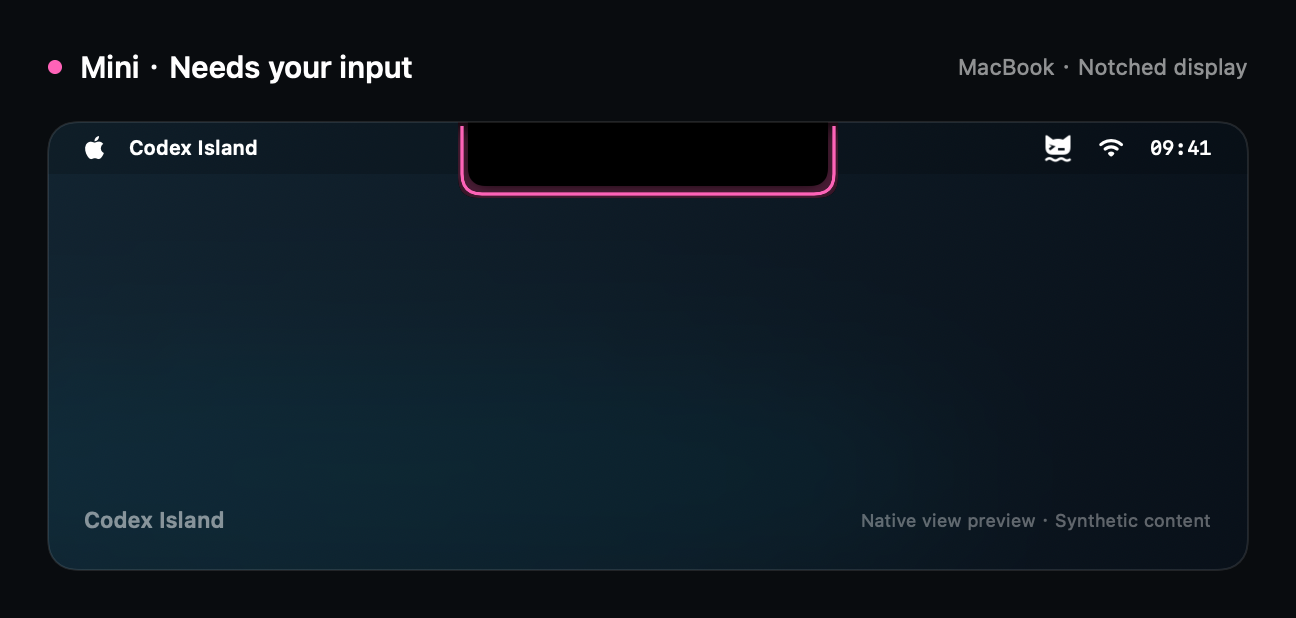
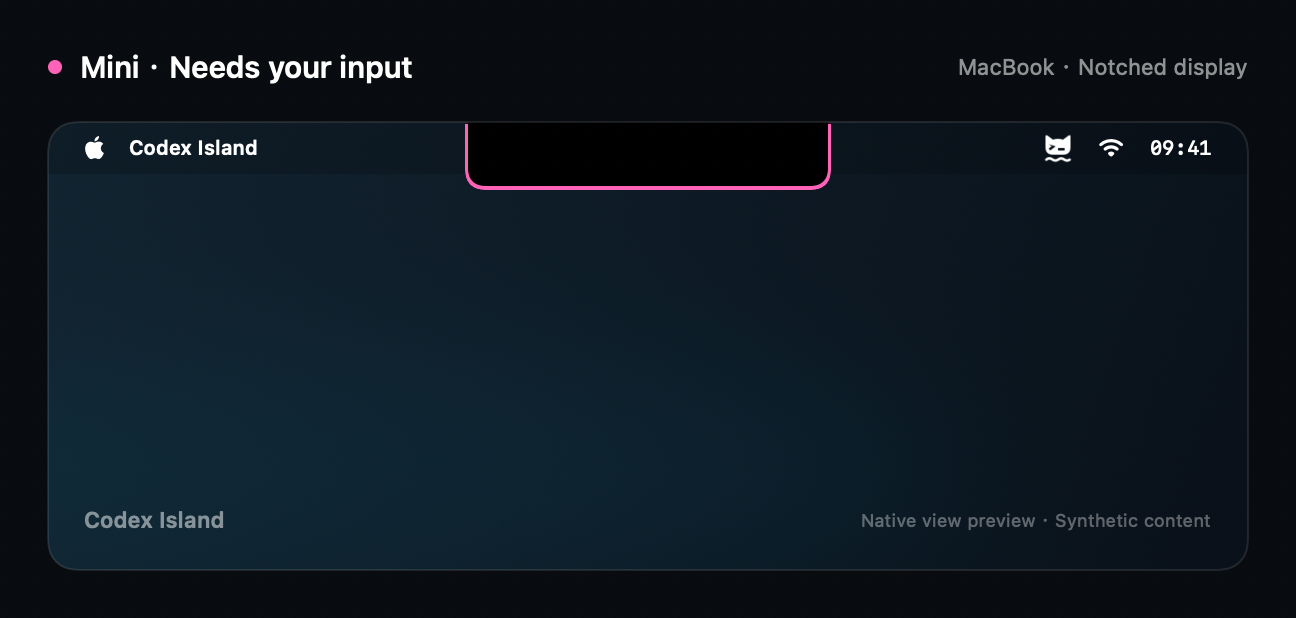
fix: load packaged resources and refine notch mini lights

Changed region(s): [[0.3395, 0.2152, 0.6481, 0.3382]]

diff --git a/Sources/CodexIsland/IslandEffects.swift b/Sources/CodexIsland/IslandEffects.swift
@@ -37,33 +37,33 @@ struct IslandOutline: View {
                 if settings.appearancePreset == .highContrast {
                     // A continuous, unblurred outline remains legible against
                     // both dark and light desktops. Status also has a glyph.
-                    shape.stroke(.white, lineWidth: 2)
+                    shape.stroke(.white, lineWidth: mini && notched ? 2.4 : 2)
                     shape.stroke(tint, lineWidth: 1)
                 } else if settings.appearancePreset == .quiet {
-                    shape.stroke(tint.opacity(state == .idle ? 0.35 : 0.75), lineWidth: 1.1)
+                    shape.stroke(tint.opacity(state == .idle ? 0.35 : 0.75), lineWidth: mini && notched ? 1.6 : 1.1)
                 } else if state == .running {
                     shape.stroke(.white.opacity(0.09), lineWidth: 0.8)
                     shape.stroke(AngularGradient(colors: [primary.opacity(0.5), primary, secondary, primary.opacity(0.5)],
                                                  center: .center, angle: .degrees(time.truncatingRemainder(dividingBy: 6) * 60)),
-                                 lineWidth: 1.1).opacity(0.65)
+                                 lineWidth: mini && notched ? 1.5 : 1.1).opacity(0.65)
                     OrbitSegment(notched: notched, mini: mini, phase: time / 3.0, length: 0.19)
                         .stroke(primary, style: StrokeStyle(lineWidth: 4, lineCap: .round)).blur(radius: 4).opacity(0.7)
                     OrbitSegment(notched: notched, mini: mini, phase: time / 3.0, length: 0.12)
-                        .stroke(primary, style: StrokeStyle(lineWidth: 1.7, lineCap: .round))
+                        .stroke(primary, style: StrokeStyle(lineWidth: mini && notched ? 2.4 : 1.7, lineCap: .round))
                     OrbitSegment(notched: notched, mini: mini, phase: time / 3.0 + 0.5, length: 0.13)
-                        .stroke(secondary.opacity(0.85), style: StrokeStyle(lineWidth: 1.4, lineCap: .round))
+                        .stroke(secondary.opacity(0.85), style: StrokeStyle(lineWidth: mini && notched ? 2.2 : 1.4, lineCap: .round))
                 } else if state == .needsInput || state == .blocked {
                     shape.stroke(tint, lineWidth: 5).blur(radius: 5).opacity(0.2 + pulse * 0.45)
-                    shape.stroke(tint.opacity(0.45 + pulse * 0.55), lineWidth: 1.6)
+                    shape.stroke(tint.opacity(0.45 + pulse * 0.55), lineWidth: mini && notched ? 2.4 : 1.6)
                 } else {
-                    shape.stroke(tint.opacity(state == .idle ? 0.13 + pulse * 0.16 : 0.6), lineWidth: 1)
+                    shape.stroke(tint.opacity(state == .idle ? 0.13 + pulse * 0.16 : 0.6), lineWidth: mini && notched ? 1.5 : 1)
                     if state == .idle {
                         OrbitSegment(notched: notched, mini: mini, phase: time / 12, length: 0.10)
                             .stroke(tint.opacity(0.35), style: StrokeStyle(lineWidth: 1.1, lineCap: .round))
                     }
                 }
             }
-            .padding(2)
+            .padding(mini && notched ? 1 : 2)
             .clipShape(shape)
         }
         .allowsHitTesting(false)

diff --git a/Sources/CodexIsland/App.swift b/Sources/CodexIsland/App.swift
@@ -12,10 +12,11 @@ struct Options {
     var renderPath: URL?
     var galleryPath: URL?
     var mini = false
+    var checkResources = false
     private var isPreviewBundle = false
 
     var permitsPersistentChanges: Bool {
-        demo == nil && statusFile == nil && !diagnose && !help && renderPath == nil && galleryPath == nil && !isPreviewBundle && !mini
+        demo == nil && statusFile == nil && !diagnose && !help && !checkResources && renderPath == nil && galleryPath == nil && !isPreviewBundle && !mini
     }
 
     init(arguments: [String], previewState: String? = Bundle.main.object(forInfoDictionaryKey: "CodexIslandPreviewState") as? String) throws {
@@ -36,6 +37,7 @@ struct Options {
                 statusFile = URL(fileURLWithPath: arguments[index])
             case "--diagnose": diagnose = true
             case "--mini": mini = true
+            case "--check-resources": checkResources = true
             case "--render-previews":
                 index += 1
                 guard index < arguments.count, arguments[index].hasPrefix("/") else { throw OptionError.invalid }
@@ -428,8 +430,23 @@ enum CodexIslandMain {
               --render-previews /absolute/preview.png     渲染原生视图示意并退出
               --render-gallery /absolute/directory        渲染 4 状态 × 2 屏幕的公开示意图
               --mini                                     本次使用 Mini 模式；与演示/图库组合，不写正式偏好
+              --check-resources                          只检查随包四语言与品牌资源，不创建界面或读取 Codex
             默认使用只读本机会话状态；当前不支持完成未读同步，未验证与宠物完全一致。
             """)
+            return
+        }
+        if options.checkResources {
+            let languages = ["en", "zh-Hans", "zh-Hant", "ja"]
+            let valid = languages.allSatisfy { language in
+                guard let bundle = L10n.localizedBundle(language) else { return false }
+                let value = bundle.localizedString(forKey: "settings.window.title", value: nil, table: nil)
+                return !value.isEmpty && value != "settings.window.title"
+            }
+            guard valid, AppResources.bundle.url(forResource: "AppIcon", withExtension: "png", subdirectory: "Brand") != nil else {
+                print("Packaged resource check failed")
+                exit(1)
+            }
+            print("Packaged resources verified: 4 languages and brand icon")
             return
         }
         let app = NSApplication.shared

diff --git a/Tests/IslandUITests/AppResourcesTests.swift b/Tests/IslandUITests/AppResourcesTests.swift
@@ -1,0 +1,41 @@
+import Foundation
+import Testing
+@testable import CodexIsland
+
+@MainActor @Test func packagedResourcesDoNotEvaluateTheGeneratedDevelopmentAccessor() throws {
+    let root = FileManager.default.temporaryDirectory.appendingPathComponent("packaged-resource-\(UUID().uuidString).app")
+    defer { try? FileManager.default.removeItem(at: root) }
+    let resources = root.appendingPathComponent("Contents/Resources")
+    let packaged = resources.appendingPathComponent("CodexIsland_CodexIsland.bundle")
+    try FileManager.default.createDirectory(at: packaged.appendingPathComponent("Contents/Resources"), withIntermediateDirectories: true)
+    let info = ["CFBundleIdentifier": "dev.water.synthetic-packaged-resource", "CFBundlePackageType": "APPL"]
+    try PropertyListSerialization.data(fromPropertyList: info, format: .xml, options: 0)
+        .write(to: root.appendingPathComponent("Contents/Info.plist"))
+    try PropertyListSerialization.data(fromPropertyList: ["CFBundleIdentifier": "dev.water.synthetic-resources"], format: .xml, options: 0)
+        .write(to: packaged.appendingPathComponent("Contents/Info.plist"))
+    let application = try #require(Bundle(url: root))
+    var evaluatedDevelopment = false
+    let actual = AppResources.resolve(in: application) {
+        evaluatedDevelopment = true
+        return .main
+    }
+    #expect(!evaluatedDevelopment)
+    #expect(actual.bundleURL.standardizedFileURL == packaged.standardizedFileURL)
+    #expect(try Options(arguments: ["--check-resources"]).permitsPersistentChanges == false)
+}
+
+@MainActor @Test func unpackagedExecutablesCanStillUseSwiftPMResources() throws {
+    let root = FileManager.default.temporaryDirectory.appendingPathComponent("development-resource-\(UUID().uuidString).bundle")
+    defer { try? FileManager.default.removeItem(at: root) }
+    try FileManager.default.createDirectory(at: root, withIntermediateDirectories: true)
+    try PropertyListSerialization.data(fromPropertyList: ["CFBundleIdentifier": "dev.water.synthetic-development"], format: .xml, options: 0)
+        .write(to: root.appendingPathComponent("Info.plist"))
+    let application = try #require(Bundle(url: root))
+    var evaluatedDevelopment = false
+    let result = AppResources.resolve(in: application) {
+        evaluatedDevelopment = true
+        return .main
+    }
+    #expect(evaluatedDevelopment)
+    #expect(result === Bundle.main)
+}

diff --git a/Tests/IslandCoreTests/MiniModeTests.swift b/Tests/IslandCoreTests/MiniModeTests.swift
@@ -29,7 +29,7 @@ import Testing
         for (width, depth) in [(180.0, 32.0), (214, 37), (163.5, 28.5)] {
             let notch = IslandGeometry.layout(screenWidth: 1512, notchWidth: width, notchHeight: depth,
                                               expanded: true, contentHeight: height, displayMode: .mini)
-            #expect(notch.width == width + 10 && notch.height == depth + 6)
+            #expect(notch.width == width + 3 && notch.height == depth + 2)
             #expect(notch.notchWidth == width && notch.notchHeight == depth && notch.hasNotch)
         }
     }
@@ -64,7 +64,7 @@ import Testing
     let frame = DisplayPlacementPolicy.frame(screenFrame: screen, visibleFrame: screen, geometry: geometry,
                                               backingScale: 2, notchCenterX: cutout.centerX)
     #expect(frame.midX == -820 && frame.maxY == 1100)
-    #expect(frame.width == 210 && frame.height == 38)
+    #expect(frame.width == 203 && frame.height == 34)
     #expect(DisplayCutout.resolve(screenFrame: screen, safeAreaTop: 0, leftArea: left, rightArea: right) == nil)
     #expect(DisplayCutout.resolve(screenFrame: screen, safeAreaTop: .nan, leftArea: left, rightArea: right) == nil)
     #expect(DisplayCutout.resolve(screenFrame: screen, safeAreaTop: 32, leftArea: nil, rightArea: right) == nil)

diff --git a/Tests/IslandUITests/MiniModeTests.swift b/Tests/IslandUITests/MiniModeTests.swift
@@ -13,11 +13,11 @@ import DesktopFeed
     #expect(!IslandHitRegion.contains(CGPoint(x: 22, y: 23), geometry: normal))
     let notch = IslandGeometry.layout(screenWidth: 1512, notchWidth: 180, notchHeight: 32,
                                       expanded: true, displayMode: .mini)
-    #expect(!IslandHitRegion.contains(CGPoint(x: 95, y: 15), geometry: notch))
-    #expect(IslandHitRegion.contains(CGPoint(x: 2, y: 15), geometry: notch))
-    #expect(IslandHitRegion.contains(CGPoint(x: 188, y: 15), geometry: notch))
-    #expect(IslandHitRegion.contains(CGPoint(x: 95, y: 35), geometry: notch))
-    #expect(!IslandHitRegion.contains(CGPoint(x: 1, y: 37), geometry: notch))
+    #expect(!IslandHitRegion.contains(CGPoint(x: 91.5, y: 15), geometry: notch))
+    #expect(IslandHitRegion.contains(CGPoint(x: 0.75, y: 15), geometry: notch))
+    #expect(IslandHitRegion.contains(CGPoint(x: 182.25, y: 15), geometry: notch))
+    #expect(IslandHitRegion.contains(CGPoint(x: 91.5, y: 33), geometry: notch))
+    #expect(!IslandHitRegion.contains(CGPoint(x: 1, y: 33), geometry: notch))
 }
 
 @MainActor @Test func miniModePreservesStatusAndPrivacyWithoutAnnouncingAnInvisiblePet() throws {

diff --git a/Sources/IslandCore/IslandGeometry.swift b/Sources/IslandCore/IslandGeometry.swift
@@ -13,8 +13,8 @@ public struct IslandGeometry: Equatable, Sendable {
                               displayMode: IslandDisplayMode = .full) -> Self {
         let notched = notchWidth.isFinite && notchHeight.isFinite && notchWidth > 0 && notchHeight > 0
         if displayMode == .mini {
-            return Self(width: notched ? notchWidth + 10 : 44,
-                        height: notched ? notchHeight + 6 : 22,
+            return Self(width: notched ? notchWidth + 3 : 44,
+                        height: notched ? notchHeight + 2 : 22,
                         notchWidth: notched ? notchWidth : 0,
                         notchHeight: notched ? notchHeight : 0,
                         hasNotch: notched, displayMode: .mini)

diff --git a/Sources/CodexIsland/AppResources.swift b/Sources/CodexIsland/AppResources.swift
@@ -1,0 +1,16 @@
+import Foundation
+
+/// A packaged app keeps its reviewed resources in Contents/Resources. Older
+/// SwiftPM accessors search beside the app or in the original build directory.
+@MainActor
+enum AppResources {
+    static let bundle = resolve(in: .main) { .module }
+
+    static func resolve(in application: Bundle, development: () -> Bundle) -> Bundle {
+        if let resources = application.resourceURL,
+           let packaged = Bundle(url: resources.appendingPathComponent("CodexIsland_CodexIsland.bundle")) {
+            return packaged
+        }
+        return development()
+    }
+}

diff --git a/Sources/CodexIsland/L10n.swift b/Sources/CodexIsland/L10n.swift
@@ -10,7 +10,7 @@ final class L10n {
     private static let bundles: [String: Bundle] = {
         var result: [String: Bundle] = [:]
         for language in ["en", "zh-Hans", "zh-Hant", "ja"] {
-            if let bundle = resolveLocalizedBundle(language, in: .module) {
+            if let bundle = resolveLocalizedBundle(language, in: AppResources.bundle) {
                 result[language] = bundle
             }
         }

diff --git a/Sources/CodexIsland/BrandAssets.swift b/Sources/CodexIsland/BrandAssets.swift
@@ -5,7 +5,7 @@ import AppKit
 @MainActor
 enum BrandAssets {
     static let colorIcon: NSImage? = {
-        guard let url = Bundle.module.url(forResource: "AppIcon", withExtension: "png", subdirectory: "Brand") else { return nil }
+        guard let url = AppResources.bundle.url(forResource: "AppIcon", withExtension: "png", subdirectory: "Brand") else { return nil }
         return NSImage(contentsOf: url)
     }()
 

diff --git a/docs/releases.md b/docs/releases.md
@@ -4,13 +4,13 @@
 
 ## Continuous integration
 
-The macOS checks workflow runs for pushes to main, pull requests, and manual dispatch. Its matrix covers the macOS 14 Apple Silicon runner and the macOS 15 Intel runner. Each job checks public files and documentation links, validates script syntax, runs the fixture-based tests, builds a native Release app, and verifies its signature.
+The macOS checks workflow runs for pushes to main, pull requests, and manual dispatch. Its matrix covers the macOS 14 Apple Silicon runner and the macOS 15 Intel runner. Each job checks public files and documentation links, validates script syntax, runs the fixture-based tests, builds a native Release app, verifies its signature, and executes the packaged binary with `--check-resources`. This checks the four language catalogs and brand icon without creating NSApplication or reading Codex data.
 
 Hosted-runner unit tests do not replace real desktop validation of approvals, Spaces, displays, or long-duration performance. No real chats, personal images, or signing credentials are required. The native gallery rasterization test is an opt-in desktop integration check (`CODEX_ISLAND_TEST_RENDER_PREVIEWS=1 ./Scripts/test.sh`). A headless runner may return a Metal device that still aborts during rendering, so device availability alone is insufficient. Default CI explicitly skips that check while synthetic gallery model and brand-pixel checks still run.
 
 ## Preview release workflow
 
-Pushing a version tag such as v0.7.3 starts the preview workflow. Maintainers can also dispatch it manually with an existing tag. The workflow:
+Pushing a version tag such as v0.8.1 starts the preview workflow. Maintainers can also dispatch it manually with an existing tag. The workflow:
 
 1. Checks that the tag is a version, resolves to the checked-out commit, and is on main's history.
 2. Checks the public source set and runs Release tests.
@@ -28,14 +28,14 @@ Update MARKETING_VERSION and BUILD_NUMBER in Scripts/package_app.sh, plus the ch
 ```bash
 python3 Scripts/verify_repository.py
 ./Scripts/test.sh -c release
-./Scripts/package_release.sh v0.7.3
+./Scripts/package_release.sh v0.8.1
 ```
 
 After committing and pushing to main, wait for all CI jobs on that exact commit to pass before creating the version tag:
 
 ```bash
-git tag -a v0.7.3 -m "Codex Island v0.7.3 preview"
-git push origin v0.7.3
+git tag -a v0.8.1 -m "Codex Island v0.8.1 preview"
+git push origin v0.8.1
 ```
 
 Do not reuse a published tag. A failed workflow may leave a draft; inspect it and the failure logs before manually recovering. Published assets are not overwritten by rerunning the workflow.
@@ -58,6 +58,6 @@ Current builds are **ad-hoc signed and not notarized**. No Developer ID certific
 
 ## Public source gate
 
-Scripts/verify_repository.py rejects generated/private directories, session databases and JSONL, key material paths, unexpected media, and recognizable embedded GitHub tokens/private-key blocks. The media allowlist contains the reviewed brand assets, the settings icon copy, and eight synthetic native state previews. It also checks local Markdown references. This targeted gate is not a complete secret scanner or a replacement for code review.
+Scripts/verify_repository.py rejects generated/private directories, session databases and JSONL, key material paths, unexpected media, and recognizable embedded GitHub tokens/private-key blocks. The media allowlist contains the reviewed brand assets, the settings icon copy, and sixteen synthetic native Full/Mini state previews. It also checks local Markdown references. This targeted gate is not a complete secret scanner or a replacement for code review.
 
 Personal pet files stay in the ignored local directory and are absent from Git history and release bundles. The app's separate bundle allowlist prevents an accidental private resource copy from reaching a release archive.

diff --git a/docs/release-readiness.md b/docs/release-readiness.md
@@ -1,6 +1,15 @@
 # GitHub 发布准备记录
 
-日期：2026-10-26；本次版本 0.8.0 build 14。下方 0.7.x 和未发布阶段记录作为历史证据保留。
+日期：2026-10-26；本次版本 0.8.1 build 15。下方 0.7.x 和未发布阶段记录作为历史证据保留。
+
+## 0.8.1 发布资源与物理刘海修复
+
+- 对已下载且校验通过的 0.8.0 发布二进制做隔离实机启动时，发现 SwiftPM 生成的 Bundle.module 查找应用根或构建机路径，与 Contents/Resources 中的随包资源位置不一致，导致启动崩溃。0.8.0 的构建、签名及摘要检查未覆盖实际资源加载，这些历史结果不作为启动通过的证据。
+- 修复为品牌与四语言共用 AppResources，优先解析随包资源；新增反例证明随包路径存在时不会求值生成访问器。打包流程执行 --check-resources，检查不创建 NSApplication 或访问 Codex 数据。旧 native 构建系统产物移走开发资源后，隔离 app 的资源检查 exit0，GUI 正常启动。
+- 当前单块内置主屏为 1512×982 pt / 2×，系统报告刘海 185×32 pt。原 195×38 pt 外框被用户反馈偏大；收窄为 188×34 pt 后用户确认贴边合适，随后保持外框并加粗灯线。WindowServer 坐标 x662/y0、level25、onscreen=true。
+- 隔离的 running / needsInput / blocked 均取得实际窗口与 AX 状态，运行及等待连续帧变化，关闭动态效果后连续帧相同。物理截图、崩溃原件与诊断仅留本机，公开图继续使用合成原生渲染。所有隔离演示均已退出。
+- 最终本机默认 Release 回归 200 项，191 执行通过、9 条件跳过；另显式原生 Mini 八图与四语言菜单 / 设置 2 项通过。通用包及新发布提交的 CI 以本轮后续证据为准。
+- 真实源问答 / 审批、跨应用点击穿透、其他刘海机型、物理热插拔及完整 sleep/lock/Space 组合仍未验收。没有重启性能专项。
 
 ## 0.8.0 Mini 本机验证
 
